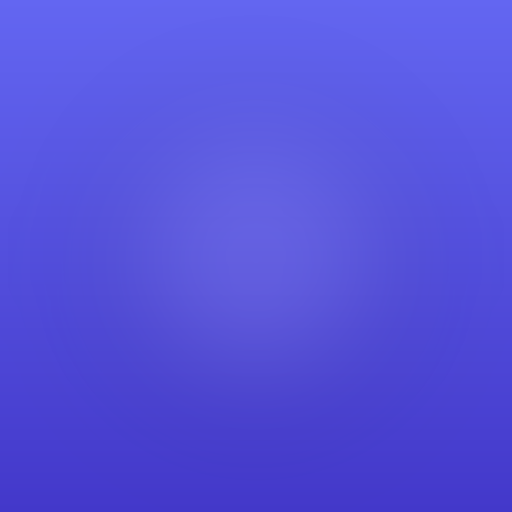
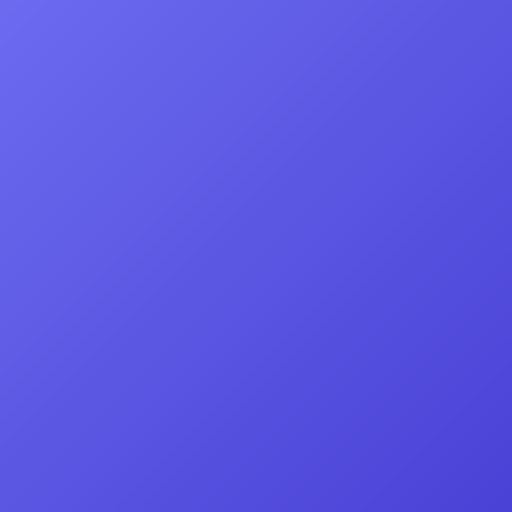
style: 应用图标改为日历 + 对号,蓝白配色

Changed region(s): [[0.0, 0.7812, 0.2812, 1.0]]

diff --git a/tools/make_icons.py b/tools/make_icons.py
@@ -1,0 +1,198 @@
+"""生成应用图标:日历 + 对号,蓝白配色(与界面主题 #4F46E5 一致)。
+
+用法:
+    python tools/make_icons.py [输出目录]
+
+默认输出到 mobile/assets/。输出文件:
+    icon.png                     1024 应用主图标
+    splash-icon.png              1024 启动图(圆角、透明角)
+    favicon.png                  48  网页图标
+    android-icon-background.png  512 自适应图标背景(渐变蓝)
+    android-icon-foreground.png  512 自适应图标前景(透明底图形)
+    android-icon-monochrome.png  432 单色图标(白色剪影)
+"""
+
+import os
+import sys
+
+import numpy as np
+from PIL import Image, ImageChops, ImageDraw
+
+# ---------- 基础 ----------
+W = 1024
+SS = 4               # 超采样倍数,绘制后缩小获得平滑边缘
+S = W * SS
+
+BLUE = (79, 70, 229)        # #4F46E5 主题色(对号)
+HEADER = (55, 48, 163)      # #3730A3 日历顶部日期条
+TICK = (199, 210, 254)      # #C7D2FE 日期条上的浅色刻度
+WHITE = (255, 255, 255)
+
+# 日历卡片与对号的几何(1024 坐标系)
+CARD = (170, 250, 854, 870)
+CARD_R = 84
+HEADER_BOTTOM = 410
+RINGS = (370, 654)
+CHECK = [(352, 640), (466, 752), (676, 530)]
+CHECK_W = 92
+
+
+def d(v):
+    return int(round(v * SS))
+
+
+def gradient_bg(size):
+    """左上到右下的蓝色渐变,与界面主题色一致。"""
+    ys, xs = np.mgrid[0:size, 0:size]
+    t = ((xs + ys) / (2.0 * (size - 1)))[..., None]
+    c0 = np.array([109, 107, 240], dtype=np.float64)  # #6D6BF0
+    c1 = np.array([74, 66, 214], dtype=np.float64)    # #4A42D6
+    arr = (c0 + (c1 - c0) * t).astype(np.uint8)
+    return Image.fromarray(arr, "RGB").convert("RGBA")
+
+
+def card_mask():
+    m = Image.new("L", (S, S), 0)
+    ImageDraw.Draw(m).rounded_rectangle([d(v) for v in CARD], radius=d(CARD_R), fill=255)
+    return m
+
+
+def header_mask(card):
+    m = Image.new("L", (S, S), 0)
+    x0, y0, x1, _ = CARD
+    ImageDraw.Draw(m).rectangle([d(x0), d(y0), d(x1), d(HEADER_BOTTOM)], fill=255)
+    return ImageChops.multiply(m, card)
+
+
+def check_mask(width=CHECK_W):
+    """圆头圆角的粗对号。"""
+    m = Image.new("L", (S, S), 0)
+    dr = ImageDraw.Draw(m)
+    pts = [(d(x), d(y)) for x, y in CHECK]
+    dr.line(pts, fill=255, width=d(width), joint="curve")
+    r = d(width) / 2
+    for x, y in (pts[0], pts[-1]):
+        dr.ellipse([x - r, y - r, x + r, y + r], fill=255)
+    return m
+
+
+def rings_mask():
+    m = Image.new("L", (S, S), 0)
+    dr = ImageDraw.Draw(m)
+    for cx in RINGS:
+        dr.rounded_rectangle([d(cx - 30), d(180), d(cx + 30), d(330)], radius=d(30), fill=255)
+    return m
+
+
+def ring_holes_mask():
+    """日期条上装订环的落点(深色圆孔)。"""
+    m = Image.new("L", (S, S), 0)
+    dr = ImageDraw.Draw(m)
+    for cx in RINGS:
+        dr.ellipse([d(cx - 22), d(318), d(cx + 22), d(362)], fill=255)
+    return m
+
+
+def fill(canvas, color, mask):
+    canvas.paste(Image.new("RGBA", (S, S), color + (255,)), (0, 0), mask)
+
+
+def render(with_bg=True):
+    canvas = gradient_bg(S) if with_bg else Image.new("RGBA", (S, S), (0, 0, 0, 0))
+    card = card_mask()
+
+    fill(canvas, WHITE, card)                     # 白色卡片
+    fill(canvas, HEADER, header_mask(card))       # 顶部深蓝日期条
+    fill(canvas, TICK, ring_holes_mask())         # 装订孔
+    fill(canvas, WHITE, rings_mask())             # 装订环
+    fill(canvas, BLUE, check_mask())              # 蓝色对号
+    return canvas
+
+
+def render_mono():
+    """单色剪影:白色日历,对号与日期条分隔线镂空。"""
+    canvas = Image.new("RGBA", (S, S), (0, 0, 0, 0))
+    card = card_mask()
+
+    # 日期条下方挖一道缝,区分顶栏与正文
+    gap = Image.new("L", (S, S), 0)
+    x0, _, x1, _ = CARD
+    ImageDraw.Draw(gap).rectangle(
+        [d(x0), d(HEADER_BOTTOM - 10), d(x1), d(HEADER_BOTTOM + 10)], fill=255
+    )
+    body = ImageChops.subtract(card, gap)
+    body = ImageChops.subtract(body, check_mask())
+    body = ImageChops.subtract(body, ring_holes_mask())
+    fill(canvas, WHITE, body)
+
+    # 装订环与卡片之间留透明缝,避免粘成一团
+    rings = rings_mask()
+    halo = Image.new("L", (S, S), 0)
+    dr = ImageDraw.Draw(halo)
+    for cx in RINGS:
+        dr.rounded_rectangle([d(cx - 44), d(166), d(cx + 44), d(344)], radius=d(44), fill=255)
+    canvas.putalpha(ImageChops.subtract(canvas.split()[3], halo))
+    fill(canvas, WHITE, rings)
+    return canvas
+
+
+def scaled_glyph(img, target_max, box=512):
+    """按内容裁剪并等比缩放,居中放到透明方图中。"""
+    bbox = img.split()[3].getbbox()
+    art = img.crop(bbox)
+    scale = target_max / max(art.size)
+    art = art.resize(
+        (max(1, round(art.width * scale)), max(1, round(art.height * scale))),
+        Image.LANCZOS,
+    )
+    out = Image.new("RGBA", (box, box), (0, 0, 0, 0))
+    out.alpha_composite(art, ((box - art.width) // 2, (box - art.height) // 2))
+    return out
+
+
+def rounded(img, radius):
+    mask = Image.new("L", img.size, 0)
+    ImageDraw.Draw(mask).rounded_rectangle(
+        [0, 0, img.width - 1, img.height - 1], radius=radius, fill=255
+    )
+    out = img.convert("RGBA")
+    out.putalpha(mask)
+    return out
+
+
+def main():
+    out = sys.argv[1] if len(sys.argv) > 1 else os.path.join(
+        os.path.dirname(__file__), "..", "mobile", "assets"
+    )
+    os.makedirs(out, exist_ok=True)
+
+    # 主图标
+    icon = render(with_bg=True).resize((W, W), Image.LANCZOS).convert("RGB")
+    icon.save(os.path.join(out, "icon.png"))
+
+    # 启动图(圆角)
+    rounded(icon.convert("RGBA"), radius=180).save(os.path.join(out, "splash-icon.png"))
+
+    # 网页图标
+    icon.resize((48, 48), Image.LANCZOS).save(os.path.join(out, "favicon.png"))
+
+    # 自适应背景
+    gradient_bg(W).resize((512, 512), Image.LANCZOS).save(
+        os.path.join(out, "android-icon-background.png")
+    )
+
+    # 自适应前景(安全区 ~66%,图形控制在 235px 内)
+    scaled_glyph(render(with_bg=False), 235).save(
+        os.path.join(out, "android-icon-foreground.png")
+    )
+
+    # 单色图标
+    scaled_glyph(render_mono(), 190, box=432).save(
+        os.path.join(out, "android-icon-monochrome.png")
+    )
+
+    print("图标已写入", os.path.abspath(out))
+
+
+if __name__ == "__main__":
+    main()
